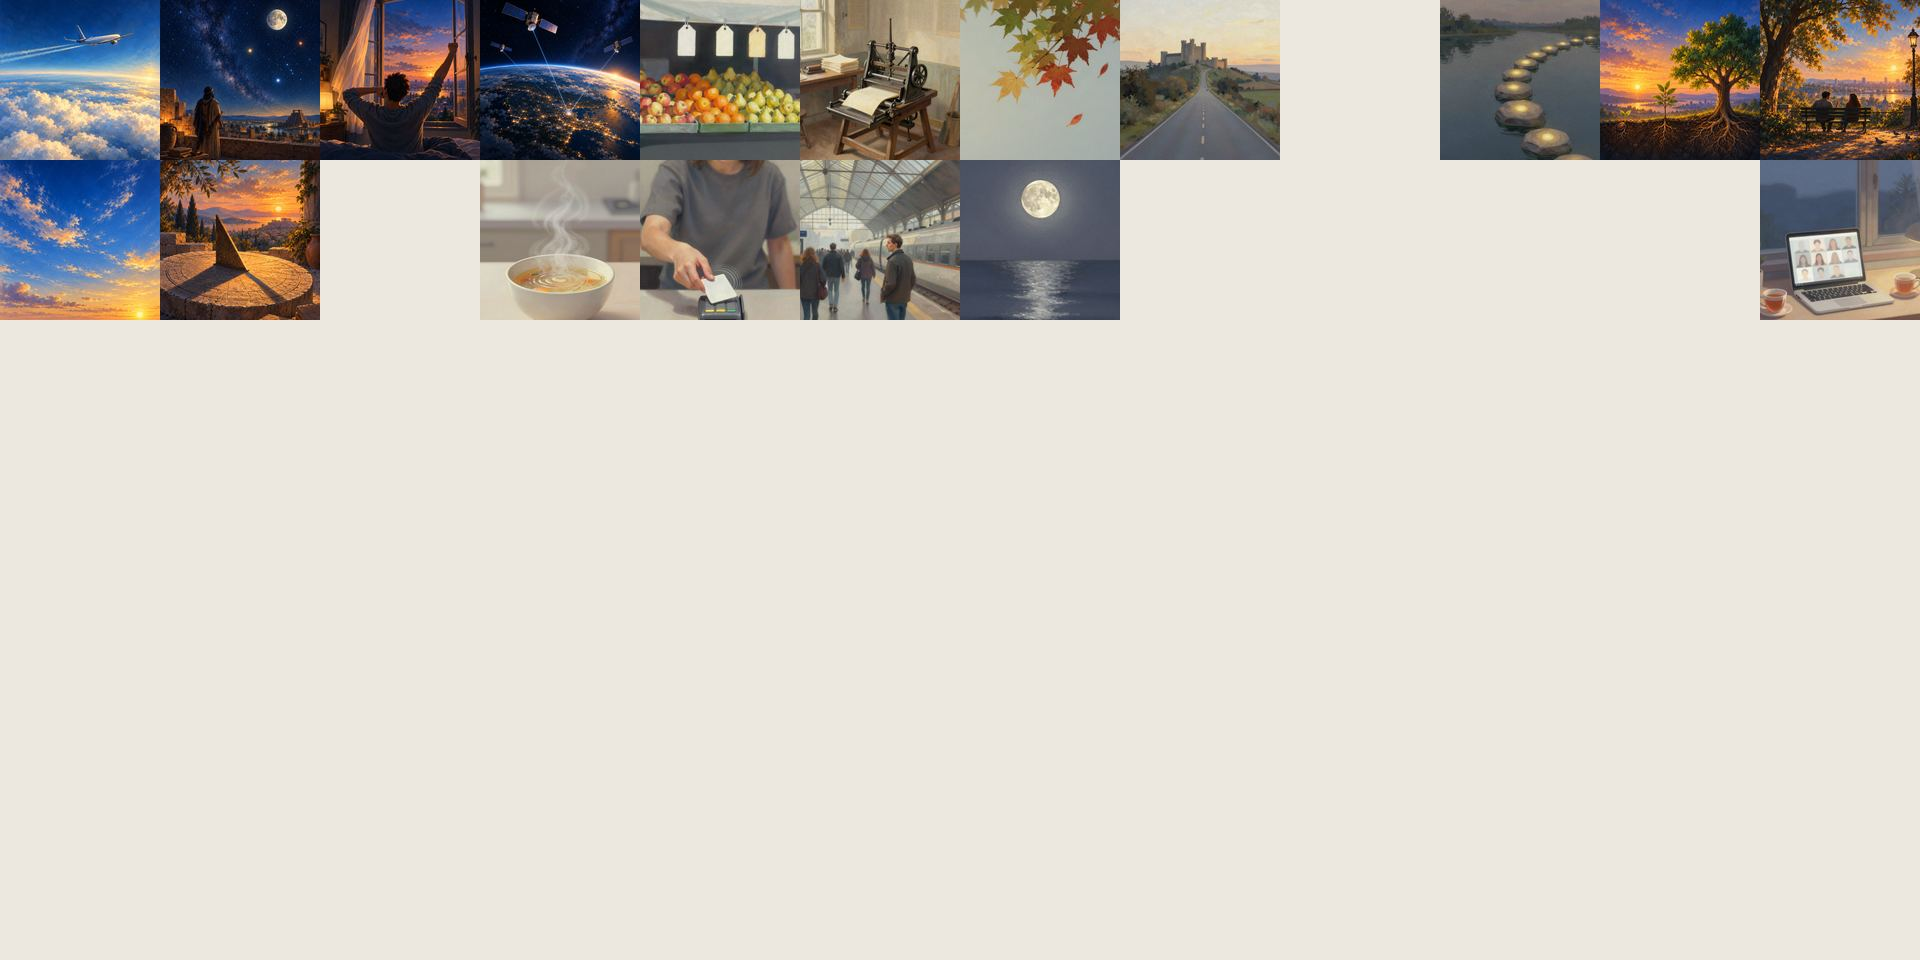
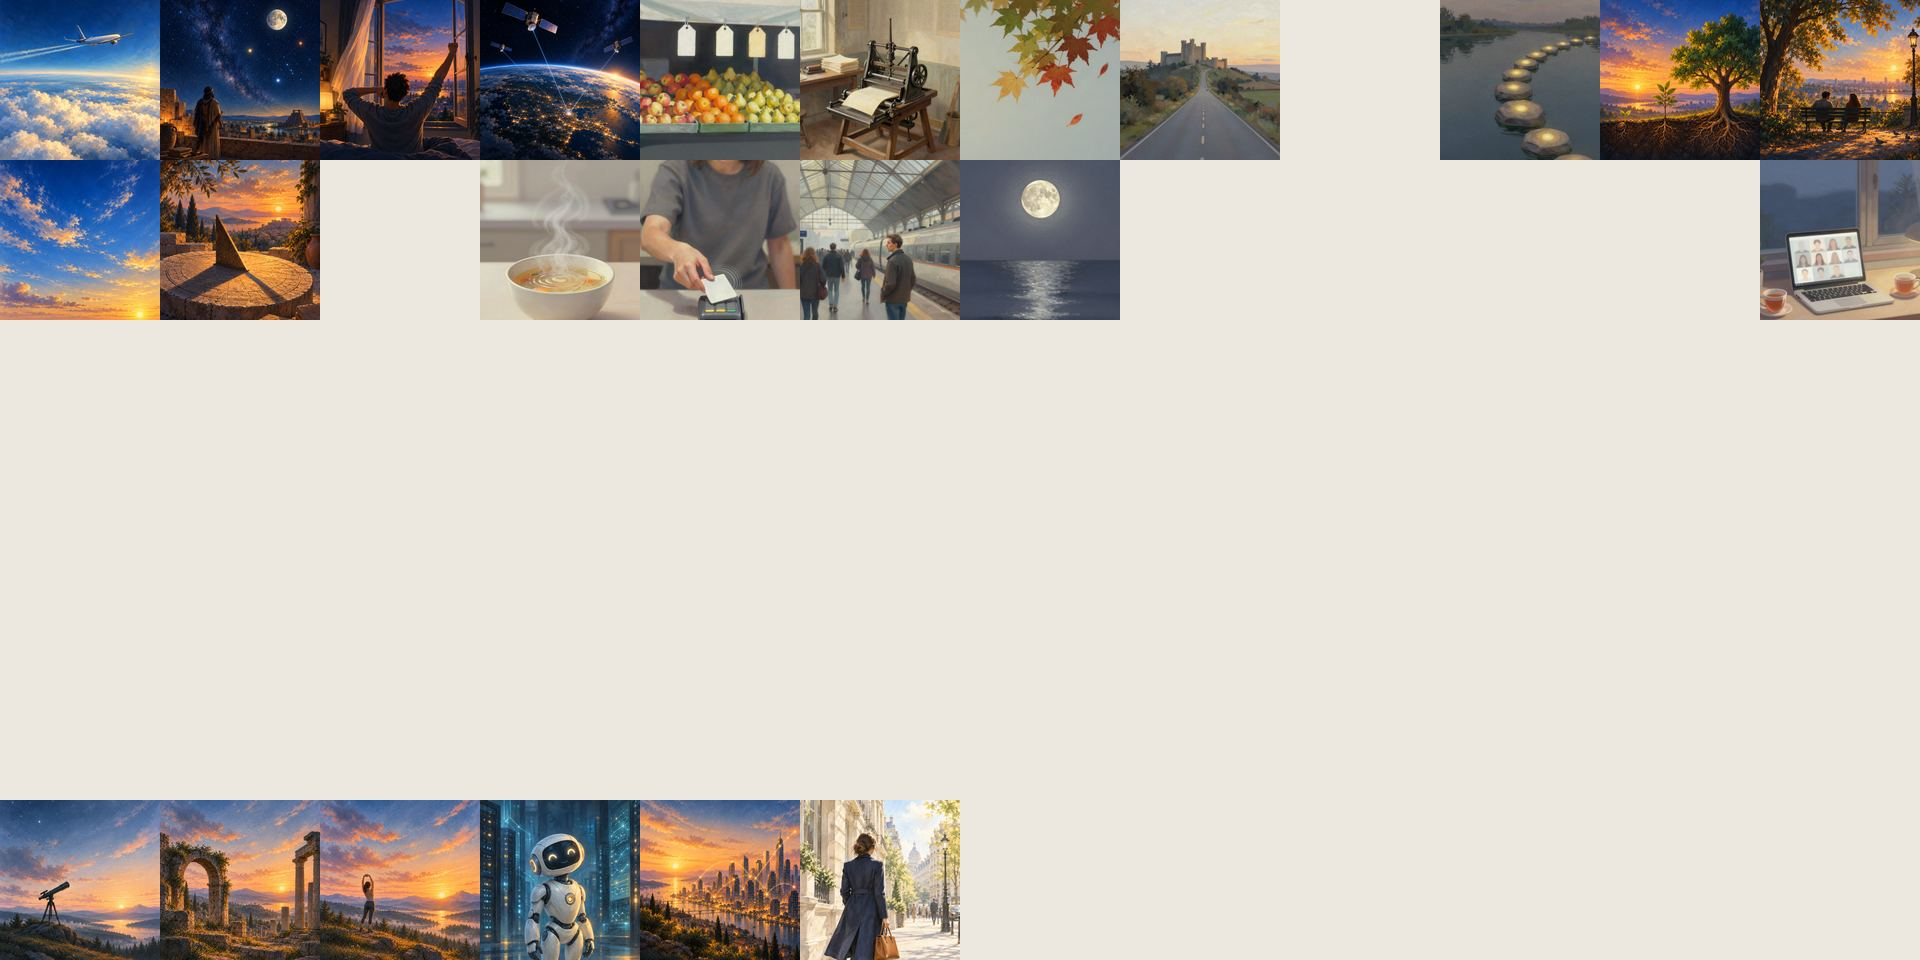
MindLift beta: illustrated welcome screens and subject covers
- New illustrated welcome screens (img/w)
- Cover pictures for the six subjects in Explore (img/c)
- Updated design and app code; refreshed image strip

Claude-Session: https://claude.ai/code/session_01J9q6p1wCGont4HaMqsaVPX

Changed region(s): [[0.0, 0.8125, 0.5, 1.0]]

diff --git a/js/app.js b/js/app.js
@@ -394,8 +394,10 @@ const COVERS = {};     // filled from data/media.json (painted covers: key -> th
 const COVER_GRID = [12, 6];
 function coverKey(lessonOrCat) {
   if (!lessonOrCat) return null;
-  const k = typeof lessonOrCat === 'string' ? lessonOrCat : pad2(lessonOrCat.day);
-  return k in COVERS ? k : null;
+  if (typeof lessonOrCat === 'string') return lessonOrCat in COVERS ? lessonOrCat : null;
+  const k = pad2(lessonOrCat.day);
+  if (k in COVERS) return k;
+  return lessonOrCat.cat in COVERS ? lessonOrCat.cat : null;   // no painting yet: use the subject's painting
 }
 function coverImg(k, cls, eager) { return '<img class="' + cls + '" src="img/c/' + k + '.jpg" alt=""' + (eager ? ' fetchpriority="high"' : ' loading="lazy"') + ' decoding="async">'; }
 function art(lessonOrCat, fit, label) {
@@ -743,7 +745,7 @@ function syncListen() {
   document.querySelectorAll('[data-act="voice-sample"]').forEach(s => {
     const on = TTS.speaking && TTS.what === 'sample-' + s.dataset.v;
     s.setAttribute('aria-pressed', String(on));
-    s.innerHTML = icon(on ? 'pause' : 'listen', 'i-md');
+    s.innerHTML = icon(on ? 'pause' : 'listen', 'i-md') + (s.classList.contains('wel-chip') ? '<span>' + esc(on ? t('stop') : t('hearVoice', { name: t('v_' + s.dataset.v) })) + '</span>' : '');
   });
   const ab = document.getElementById('art-listen');
   if (ab) {
@@ -1033,38 +1035,43 @@ function tabbar() {
 /* ================= Layers ================= */
 // Animated logo for the welcome screen: the line draws in, the dot lifts off it, a warm glow appears,
 // the name settles underneath, then the dot keeps floating gently. Same proportions as the MindLift mark.
-function logoArt() {
-  let s = '<svg class="art logo-anim" viewBox="0 0 400 240" preserveAspectRatio="xMidYMid meet" role="img" aria-label="' + esc(t('logoAlt')) + '" style="background:var(--surface-2)"><rect x="-800" width="2000" height="240" style="fill:var(--surface-2)"/>';
-  for (let y = 20, i = 0; y <= 220; y += 20, i++) s += '<path class="ks la-line" d="M-800 ' + y + 'H1200" stroke-opacity="0.07" style="animation-delay:' + (i * 45) + 'ms"/>';
-  s += '<circle class="sf la-tw" cx="104" cy="58" r="4" style="animation-delay:2.4s"/><circle class="v la-tw" cx="300" cy="44" r="3" style="animation-delay:3.3s"/><circle class="d la-tw" cx="318" cy="128" r="3.5" style="fill:var(--teal);animation-delay:4.1s"/>';
+// onPaint: drawn over a painting (no paper background, white name).
+function logoArt(onPaint) {
+  let s = '<svg class="art logo-anim' + (onPaint ? ' on-paint' : '') + '" viewBox="0 0 400 240" preserveAspectRatio="xMidYMid meet" role="img" aria-label="' + esc(t('logoAlt')) + '"' + (onPaint ? '' : ' style="background:var(--surface-2)"') + '>';
+  if (!onPaint) {
+    s += '<rect x="-800" width="2000" height="240" style="fill:var(--surface-2)"/>';
+    for (let y = 20, i = 0; y <= 220; y += 20, i++) s += '<path class="ks la-line" d="M-800 ' + y + 'H1200" stroke-opacity="0.07" style="animation-delay:' + (i * 45) + 'ms"/>';
+  }
+  s += '<circle class="sf la-tw" cx="104" cy="58" r="4" style="animation-delay:2.4s"/><circle class="v la-tw" cx="300" cy="44" r="3" style="animation-delay:3.3s"/><circle class="d la-tw" cx="318" cy="128" r="3.5" style="fill:' + (onPaint ? '#fff' : 'var(--teal)') + ';animation-delay:4.1s"/>';
+  if (onPaint) s += '<circle class="la-ring" cx="200" cy="84" r="30"/><circle class="la-ring r2" cx="200" cy="84" r="30"/>';
   s += '<g class="la-float"><g class="la-breathe"><circle class="sf la-halo la-in" cx="200" cy="84" r="44" fill-opacity="0.55"/></g><circle class="v la-dot la-in" cx="200" cy="84" r="26"/></g>';
-  s += '<rect class="k la-bar la-in" x="152" y="129" width="96" height="12" rx="6"/>';
-  s += '<text class="la-word la-in" x="200" y="190" text-anchor="middle" style="font-family:var(--serif);font-size:34px;font-weight:600;letter-spacing:-0.01em;fill:var(--ink)">MindLift</text>';
+  s += '<rect class="' + (onPaint ? '' : 'k ') + 'la-bar la-in" x="152" y="129" width="96" height="12" rx="6"' + (onPaint ? ' style="fill:' + (onPaint === 'white' ? '#fff' : '#16181D') + '"' : '') + '/>';
+  s += '<text class="la-word la-in" x="200" y="190" text-anchor="middle" style="font-family:var(--serif);font-size:34px;font-weight:600;letter-spacing:-0.01em;fill:' + (onPaint === 'white' ? '#fff' : onPaint ? '#16181D' : 'var(--ink)') + '">MindLift</text>';
   return s + '</svg>';
 }
+// Welcome pages: a painting on top (img/w/N.jpg), a cream sheet with the words underneath.
 const WP = [
-  { k: 'wp0', art: 'logo' },
-  { k: 'wp1', art: 'cards' },
-  { k: 'wp2', art: 'listen' },
-  { k: 'wp3', art: 'articles' },
-  { k: 'wp4', art: 'spark' }
+  { k: 'wp0', img: 1, logo: 'white', hero: true, btn: '#5B5A36' },
+  { k: 'wp1', img: 2, today: true, btn: '#6B4A2F' },
+  { k: 'wp2', img: 3, hear: true, btn: '#5C3B26' },
+  { k: 'wp3', img: 4, btn: '#7A4424' },
+  { k: 'wp4', img: 5, logo: 'white', hero: true, btn: '#344D64' }
 ];
-function obArt(p) {
-  if (p.art === 'logo') return logoArt();
-  return '<div class="ob-logo">' + logoArt() + '<span class="ob-badge">' + icon(p.art) + '</span></div>';
-}
 function renderWelcome() {
   const n = WP.length, i = Math.max(0, Math.min(n - 1, V.wp || 0)), p = WP[i], last = i === n - 1;
-  let html = '<div class="layer" role="dialog" aria-modal="true" aria-labelledby="welcome-h"><div class="flow">';
-  html += '<div class="flow-bar" style="margin-inline:0">' + (i > 0 ? '<button type="button" class="iconbtn" data-act="wp-back" aria-label="' + esc(t('back')) + '" style="margin-left:-8px">' + icon('back') + '</button>' : '') + brand(true) + '<span style="flex:1"></span>' + langSeg('lang-w') + (last ? '' : '<button type="button" class="btn btn-ghost btn-sm" data-act="wp-skip" style="margin-right:-12px">' + esc(t('skip')) + '</button>') + '</div>';
-  html += '<div class="flow-body step ob" data-swipe="wp">';
-  html += '<div class="ob-art">' + obArt(p) + '</div>';
-  html += '<div class="ob-text"><span class="t-over' + (i === 0 ? ' spark' : '') + '">' + esc(t(p.k + 'o', { i: i + 1, n })) + '</span><h1 class="' + (i === 0 ? 't-display' : 't-h1') + '" id="welcome-h" tabindex="-1">' + esc(t(p.k + 't')) + '</h1>';
-  (T[S.lang][p.k + 'p'] || T.en[p.k + 'p']).forEach(par => { html += '<p>' + esc(par) + '</p>'; });
+  if (i + 1 < n) { const pre = new Image(); pre.src = 'img/w/' + WP[i + 1].img + '.jpg'; }
+  let html = '<div class="layer wel' + (last ? ' wel-last' : '') + '" role="dialog" aria-modal="true" aria-labelledby="welcome-h">';
+  html += '<div class="wel-art"><img class="wel-img" src="img/w/' + p.img + '.jpg" alt="" fetchpriority="high" decoding="async"><span class="wel-shade" aria-hidden="true"></span>';
+  if (p.logo) html += '<div class="wel-logo wl-' + p.logo + (p.hero ? ' wl-hero' : '') + '">' + logoArt(p.logo) + '</div>';
+  if (p.today) { const tl = todayLesson(); if (tl) html += '<div class="wel-tag"><span>' + esc(t('qotd')) + ' · ' + esc(t('min', { n: tl.min })) + '</span>' + esc(L(tl).t) + '</div>'; }
   html += '</div>';
-  if (last) html += '<div class="ob-foot"><p class="signature">' + esc(t('madeBy')) + '</p><p class="t-caption" style="text-align:center;font-weight:400">' + esc(t('rights')) + '</p></div>';
-  html += '</div>';
-  html += '<div class="flow-foot"><div class="ob-dots" role="group" aria-label="' + esc(t('obPages')) + '">';
+  html += '<div class="wel-bar">' + (i > 0 ? '<button type="button" class="iconbtn" data-act="wp-back" aria-label="' + esc(t('back')) + '">' + icon('back') + '</button>' : '') + (p.hero ? '' : brand(false)) + '<span style="flex:1"></span>' + langSeg('lang-w') + (last || i === 0 ? '' : '<button type="button" class="btn btn-ghost btn-sm wel-skip" data-act="wp-skip">' + esc(t('skip')) + '</button>') + '</div>';
+  html += '<div class="wel-sheet" style="--wel-btn:' + p.btn + '"><div class="wel-in step" data-swipe="wp">';
+  html += '<span class="t-over spark">' + esc(t(p.k + 'o', { i: i + 1, n })) + '</span><h1 class="wel-h" id="welcome-h" tabindex="-1">' + esc(t(p.k + 't')) + '</h1>';
+  (T[S.lang][p.k + 'p'] || T.en[p.k + 'p']).forEach(par => { html += '<p class="wel-p">' + esc(par) + '</p>'; });
+  if (p.hear) html += '<div><button type="button" class="wel-chip" data-act="voice-sample" data-v="ava" aria-pressed="false">' + icon('listen', 'i-md') + '<span>' + esc(t('hearVoice', { name: t('v_ava') })) + '</span></button></div>';
+  if (last) html += '<div class="wel-sig"><p class="signature">' + esc(t('madeBy')) + '</p><p class="t-caption">' + esc(t('rights')) + '</p></div>';
+  html += '</div><div class="wel-foot"><div class="ob-dots" role="group" aria-label="' + esc(t('obPages')) + '">';
   for (let k = 0; k < n; k++) html += '<button type="button" class="ob-dot" data-act="wp-go" data-v="' + k + '"' + (k === i ? ' aria-current="step"' : '') + ' aria-label="' + esc(t('obPage', { i: k + 1, n })) + '"></button>';
   html += '</div>';
   if (last) html += '<button type="button" class="btn btn-primary btn-block" data-act="setup"><span>' + esc(t('makeItMine')) + '</span>' + icon('arrow', 'i-md') + '</button><button type="button" class="btn btn-ghost btn-block" data-act="welcome-start">' + esc(t('skipStart')) + '</button>';

diff --git a/css/app.css b/css/app.css
@@ -603,7 +603,7 @@ button.lesson-ref:active { transform: scale(0.99); }
 @keyframes la-float { 0%, 100% { transform: none; } 50% { transform: translateY(-5px); } }
 @keyframes la-breathe { 0%, 100% { transform: none; } 50% { transform: scale(1.06); } }
 @keyframes la-tw { 0%, 100% { opacity: 0; transform: scale(0.6); } 45%, 55% { opacity: 1; transform: none; } }
-.layer.still-layer .logo-anim .la-in { animation: none !important; }
+.layer.still-layer .logo-anim:not(.on-paint) .la-in { animation: none !important; }
 @media (prefers-reduced-motion: reduce) {
   .logo-anim .la-in, .logo-anim .la-float, .logo-anim .la-breathe { animation: none !important; }
   .logo-anim .la-tw { animation: none !important; opacity: 0.8; }
@@ -695,3 +695,70 @@ button.lesson-ref:active { transform: scale(0.99); }
 .boot-dot { width: 14px; height: 14px; border-radius: 50%; background: var(--accent); animation: boot-pulse 1.2s ease-in-out infinite; }
 @keyframes boot-pulse { 0%, 100% { opacity: 0.25; transform: scale(0.8); } 50% { opacity: 1; transform: none; } }
 @media (prefers-reduced-motion: reduce) { .boot-dot { animation: none; } }
+
+/* ---------- Welcome: a painting on top, a cream sheet with the words underneath */
+.layer.wel { display: flex; flex-direction: column; }
+.wel-art { position: relative; flex: none; height: clamp(300px, 60vh, 640px); overflow: hidden; background: #2a2f3a; }
+.wel-img { position: absolute; inset: 0; width: 100%; height: 100%; object-fit: cover; object-position: center 40%; transform-origin: 50% 40%; animation: wel-zoom 16s ease-out both; }
+@keyframes wel-zoom { from { transform: scale(1.1); } to { transform: none; } }
+.wel-shade { position: absolute; inset: 0; background: linear-gradient(to bottom, rgba(10, 14, 22, 0.45) 0, rgba(10, 14, 22, 0) 140px); }
+.wel-bar { position: absolute; top: 0; left: 0; right: 0; z-index: 2; display: flex; align-items: center; gap: 10px; max-width: 640px; margin: 0 auto; padding: calc(10px + env(safe-area-inset-top, 0px)) 16px 0; color: #fff; }
+.wel-bar .brand { color: #fff; }
+.wel-bar .brand svg { width: 34px; height: 34px; }
+.wel-bar .brand-name { font-size: 27px; line-height: 32px; text-shadow: 0 1px 10px rgba(0, 0, 0, 0.3); }
+.wel-bar .mark-bar { fill: #fff; }
+.wel-bar .iconbtn { color: #fff; background: transparent; border-color: transparent; }
+.wel-bar .seg { background: rgba(255, 255, 255, 0.18); -webkit-backdrop-filter: blur(6px); backdrop-filter: blur(6px); }
+.wel-bar .seg button { color: rgba(255, 255, 255, 0.85); min-width: 40px; padding: 0 10px; }
+.wel-bar .seg button[aria-pressed="true"] { background: #fff; color: #16181D; }
+.wel-bar .wel-skip { color: #fff; padding-inline: 10px; }
+.wel-logo { position: absolute; left: 0; right: 0; top: 18%; display: flex; justify-content: center; }
+.wel-logo svg { width: min(420px, 100%); height: auto; overflow: visible; filter: drop-shadow(0 4px 18px rgba(30, 20, 0, 0.18)); }
+.wel-tag { position: absolute; left: 16px; bottom: 50px; max-width: calc(100% - 32px); display: flex; flex-direction: column; gap: 2px; padding: 9px 13px; border-radius: 14px; background: rgba(255, 255, 255, 0.93); color: #16181D; font-family: var(--serif); font-size: 17px; line-height: 22px; box-shadow: 0 8px 22px rgba(0, 0, 0, 0.18); }
+.wel-tag span { font-family: var(--sans); font-size: 11px; line-height: 14px; font-weight: 600; letter-spacing: 0.08em; text-transform: uppercase; color: #C4401F; }
+.wel-sheet { position: relative; flex: 1 0 auto; margin-top: -30px; border-radius: 28px 28px 0 0; background: var(--bg); display: flex; flex-direction: column; box-shadow: 0 -8px 24px rgba(0, 0, 0, 0.08); }
+.wel-in { width: 100%; max-width: 600px; margin: 0 auto; padding: 26px 22px 0; display: flex; flex-direction: column; gap: 10px; }
+.wel-h { font-family: var(--serif); font-weight: 500; font-size: 32px; line-height: 37px; letter-spacing: -0.01em; text-wrap: balance; }
+.wel-p { font-family: var(--serif); font-size: 19px; line-height: 27px; color: var(--muted); }
+.wel-chip { display: inline-flex; align-items: center; gap: 8px; margin-top: 4px; min-height: 40px; padding: 0 16px 0 12px; border: 0; border-radius: var(--r-pill); background: var(--teal-soft); color: var(--teal); font-size: 15px; font-weight: 600; cursor: pointer; }
+.wel-chip:focus-visible { outline: 2px solid var(--teal); outline-offset: 2px; }
+.wel-sig { margin-top: 6px; display: flex; flex-direction: column; gap: 2px; }
+.wel-sig .signature, .wel-sig .t-caption { text-align: left; font-weight: 400; }
+.wel-foot { width: 100%; max-width: 600px; margin: auto auto 0; padding: 18px 20px calc(20px + env(safe-area-inset-bottom, 0px)); display: flex; flex-direction: column; gap: 10px; }
+@media (max-height: 700px) { .wel-art { height: 52vh; } .wel-h { font-size: 28px; line-height: 33px; } .wel-p { font-size: 17px; line-height: 24px; } }
+@media (prefers-reduced-motion: reduce) { .wel-img { animation: none; } }
+.wel-last .wel-art { height: clamp(250px, 46vh, 520px); }
+.wel-last .wel-logo { top: 12%; }
+.wel-bar .iconbtn { margin-left: -8px; margin-right: -6px; }
+@media (max-width: 400px) {
+  .wel-bar { gap: 6px; padding-inline: 12px; }
+  .wel-bar .brand-name { font-size: 24px; }
+  .wel-bar .brand svg { width: 30px; height: 30px; }
+  .wel-bar .seg button { min-width: 34px; padding: 0 8px; min-height: 36px; }
+  .wel-bar .wel-skip { padding-inline: 6px; }
+}
+.wel-logo.wl-hero { top: 9%; }
+.wel-logo.wl-hero::before { content: ""; position: absolute; left: 50%; top: 50%; width: 125%; max-width: 540px; aspect-ratio: 1.45; transform: translate(-50%, -50%); background: radial-gradient(closest-side, rgba(40, 30, 20, 0.42), rgba(40, 30, 20, 0.22) 55%, rgba(40, 30, 20, 0) 100%); pointer-events: none; }
+.wel-logo.wl-hero svg { position: relative; width: min(440px, 112%); filter: drop-shadow(0 2px 10px rgba(20, 12, 0, 0.45)); }
+@media (max-height: 700px) { .wel-logo.wl-hero { top: 4%; } .wel-logo.wl-hero svg { width: min(340px, 90%); } }
+/* Welcome logo on a painting: livelier ongoing motion (a slow float, a breathing glow, soft rings spreading out) */
+.logo-anim.on-paint .la-float { animation: la-float-big 4.2s ease-in-out 2.2s infinite; }
+.logo-anim.on-paint .la-breathe { animation: la-breathe-big 4.2s ease-in-out 2.2s infinite; }
+.logo-anim.on-paint .la-ring { fill: none; stroke: #fff; stroke-width: 2; opacity: 0; transform-box: fill-box; transform-origin: center; animation: la-ring 4.2s ease-out 2.2s infinite; }
+.logo-anim.on-paint .la-ring.r2 { animation-delay: 4.3s; }
+.logo-anim.on-paint .la-word { animation: la-word 750ms cubic-bezier(0.2, 0.8, 0.2, 1) 1250ms both, la-glow 4.2s ease-in-out 2.2s infinite; }
+@keyframes la-float-big { 0%, 100% { transform: none; } 50% { transform: translateY(-10px); } }
+@keyframes la-breathe-big { 0%, 100% { transform: none; opacity: 1; } 50% { transform: scale(1.14); opacity: 0.8; } }
+@keyframes la-ring { 0% { transform: scale(0.9); opacity: 0.55; } 100% { transform: scale(2.6); opacity: 0; } }
+@keyframes la-glow { 0%, 100% { opacity: 1; } 50% { opacity: 0.86; } }
+@media (prefers-reduced-motion: reduce) { .logo-anim.on-paint .la-ring { display: none; } .logo-anim.on-paint .la-float, .logo-anim.on-paint .la-breathe, .logo-anim.on-paint .la-word { animation: none !important; } }
+/* Welcome sheet colour: warm sand fading into soft sage. It stays light in dark mode too, so the light tokens are set here. */
+.wel-sheet { --bg: #E2E1CE; --surface: #FFFFFF; --surface-2: #D8D9C4; --line: #B9BBA6; --ink: #16181D; --muted: #5F5D4C; --on-ink: #F5F2EC; --accent: #C4401F; --teal: #1F5E5B; --teal-soft: #CFDAC8; color: var(--ink); background: linear-gradient(180deg, #EADBC4 0%, #E2E1CE 45%, #D9E2D0 100%); color-scheme: light; }
+.layer.wel { background: #D9E2D0; }
+.wel-sheet .ob-dot { background: #B3B6A0; }
+.wel-sheet .ob-dot[aria-current="step"] { background: #16181D; }
+.wel-sheet .btn-ghost { background: rgba(255, 255, 255, 0.45); color: #16181D; }
+/* Each welcome page's main button takes a deep colour from its painting */
+.wel-foot .btn-primary, .wel-foot .btn-primary:hover { background: var(--wel-btn, #16181D); border-color: var(--wel-btn, #16181D); color: #fff; }
+.wel-sheet .ob-dot[aria-current="step"] { background: var(--wel-btn, #16181D); }
+.wel-foot .btn-primary { transition: background-color 300ms var(--ease); }

diff --git a/index.html b/index.html
@@ -9,11 +9,11 @@
 <link rel="preconnect" href="https://fonts.googleapis.com">
 <link rel="preconnect" href="https://fonts.gstatic.com" crossorigin>
 <link rel="stylesheet" href="https://fonts.googleapis.com/css2?family=Instrument+Sans:wght@400;500;600&family=Newsreader:ital,opsz,wght@0,6..72,400;0,6..72,500;0,6..72,600;1,6..72,400&display=swap">
-<link rel="stylesheet" href="css/app.css?v=a75f0756">
+<link rel="stylesheet" href="css/app.css?v=8d5eea86">
 <div id="root"><div class="boot" aria-label="Loading"><span class="boot-dot"></span></div></div>
 <div id="sheet-host"></div>
 <div id="toast-host" aria-live="polite"></div>
 <noscript><p style="padding:24px;font-family:Georgia,serif">MindLift needs JavaScript to run.</p></noscript>
-<script src="js/app.js?v=cfcab5b9"></script>
+<script src="js/app.js?v=6928d3e2"></script>
 
 </body></html>
